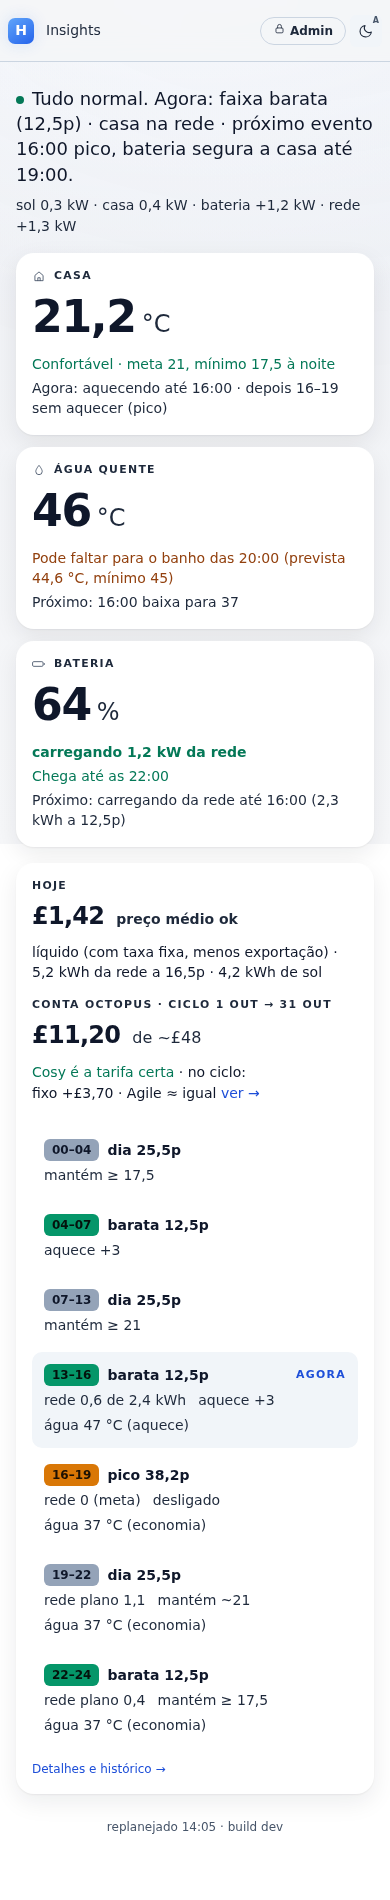
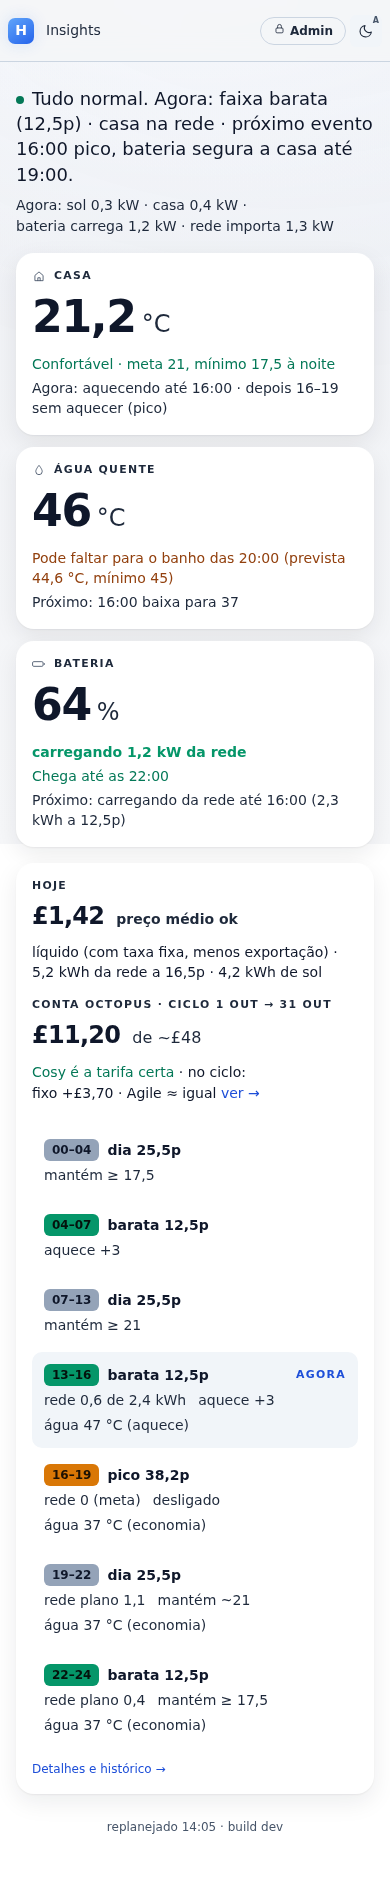
fix(ui): battery flow uses the load balance, stale suffix, words in Agora row (#879)

Changed region(s): [[0.4, 0.0932, 0.8615, 0.1242], [0.0308, 0.0932, 0.3692, 0.1242]]

diff --git a/ui/src/components/home/simple/logic.ts b/ui/src/components/home/simple/logic.ts
@@ -570,55 +570,66 @@ export function bateriaTile(now: CockpitNow, fronts: PlanFrontsResponse | null):
     else if (r.at) { meaning = `Chega até as ${r.at}`; tone = "ok"; }
   }
   const fl = batteryFlow(now.state);
+  const stale = agoraStale(now);   // no present tense on stale data
   return {
     value: soc != null ? fmt(soc, 0) : null, unit: "%", meaning, next: nextCharge(b, tariff, nowMs, away), tone,
-    ...(fl ? { flow: fl.text, flowTone: fl.tone } : {}),
+    ...(fl ? { flow: fl.text + stale, flowTone: fl.tone } : {}),
   };
 }
 
-type FlowState = { battery_kw?: number | null; grid_kw?: number | null; solar_kw?: number | null } | null | undefined;
+type FlowState = {
+  battery_kw?: number | null; grid_kw?: number | null; solar_kw?: number | null; load_kw?: number | null;
+} | null | undefined;
 const FLOW_DEAD_BAND_KW = 0.05;
+const SRC_MIN_KW = 0.1;
 
 /** Live battery flow in words (pt-BR), from the power balance. battery_kw > 0 =
- *  charging; grid_kw > 0 = import, < 0 = export. null when the reading is absent. */
+ *  charging; grid_kw > 0 = import, < 0 = export. Sun available to the battery is
+ *  the PV surplus after the house load. null when the reading is absent. */
 export function batteryFlow(s: FlowState): { text: string; tone: "charge" | "discharge" | "idle" } | null {
   const b = s?.battery_kw;
   if (b == null || !Number.isFinite(b)) return null;
   if (Math.abs(b) < FLOW_DEAD_BAND_KW) return { text: "parada", tone: "idle" };
   const kw = fmt(Math.abs(b), 1);
   const grid = s?.grid_kw ?? 0;
+  const surplus = Math.max(0, (s?.solar_kw ?? 0) - (s?.load_kw ?? 0));
   if (b > 0) {
-    const src = (s?.solar_kw ?? 0) >= b ? " do sol" : grid > 0.1 ? " da rede" : "";
+    const fromSun = Math.min(b, surplus);
+    const fromGrid = Math.max(0, Math.min(b - fromSun, grid));
+    const src = fromSun >= SRC_MIN_KW && fromGrid >= SRC_MIN_KW ? " do sol e da rede"
+      : fromGrid >= SRC_MIN_KW ? " da rede"
+      : fromSun > 0 ? " do sol" : "";
     return { text: `carregando ${kw} kW${src}`, tone: "charge" };
   }
-  return { text: `descarregando ${kw} kW para ${grid < -0.1 ? "a rede" : "a casa"}`, tone: "discharge" };
+  const toGrid = Math.max(0, -grid - surplus);
+  return { text: `descarregando ${kw} kW para ${toGrid >= SRC_MIN_KW ? "a rede" : "a casa"}`, tone: "discharge" };
 }
 
-/** Signed kW for the Agora line: "+1,2" / "−0,3" / "0,0" (no "-0,0"). */
-function skw(n: number): string {
-  const r = Math.round(Math.abs(n) * 10) / 10;
-  return r === 0 ? "0,0" : `${n < 0 ? "−" : "+"}${fmt(r, 1)}`;
-}
-
-/** House power balance, one row: sol / casa (unsigned) and bateria / rede (signed;
- *  explained once in the title). A null figure is hidden. The battery kW also
- *  appears in the Bateria tile flow line: the one accepted duplicate (the tile is
- *  the battery detail, this row is the house balance). */
+/** House power balance, one row of phrases. bateria / rede use WORDS instead of
+ *  signs (carrega / descarrega, importa / exporta) so the legend is visible on a
+ *  phone; a zero reads "bateria 0,0 kW". A null figure is hidden. The battery kW
+ *  also appears in the Bateria tile flow line: the one accepted duplicate (the
+ *  tile is the battery detail, this row is the house balance; DESIGN.md log). */
 export function agoraParts(now: CockpitNow): string[] {
   const s = now.state;
   const out: string[] = [];
+  const dir = (n: number, pos: string, neg: string) => {
+    const r = Math.round(Math.abs(n) * 10) / 10;
+    return r === 0 ? "0,0" : `${n > 0 ? pos : neg} ${fmt(r, 1)}`;
+  };
   if (s.solar_kw != null) out.push(`sol ${fmt(Math.max(0, s.solar_kw), 1)} kW`);
   if (s.load_kw != null) out.push(`casa ${fmt(Math.max(0, s.load_kw), 1)} kW`);
-  if (s.battery_kw != null) out.push(`bateria ${skw(s.battery_kw)} kW`);
-  if (s.grid_kw != null) out.push(`rede ${skw(s.grid_kw)} kW`);
+  if (s.battery_kw != null) out.push(`bateria ${dir(s.battery_kw, "carrega", "descarrega")} kW`);
+  if (s.grid_kw != null) out.push(`rede ${dir(s.grid_kw, "importa", "exporta")} kW`);
   return out;
 }
-export const AGORA_TITLE = "bateria: + carrega, − descarrega · rede: + importa, − exporta";
+export const AGORA_TITLE = "bateria: carrega / descarrega · rede: importa / exporta";
 const FOX_STALE_S = 300;
 /** " (há N min)" when the Fox reading is older than 5 min, else "". */
 export function agoraStale(now: CockpitNow): string {
   const age = now.freshness?.fox?.age_s;
-  if (age == null || !(age > FOX_STALE_S)) return "";
+  const stale = now.freshness?.fox?.stale === true;
+  if (age == null || !(age > FOX_STALE_S)) return stale && age != null ? ` (há ${Math.max(1, Math.floor(age / 60))} min)` : "";
   const min = Math.floor(age / 60);
   return min >= 60 ? ` (há ${Math.floor(min / 60)} h)` : ` (há ${min} min)`;
 }

diff --git a/ui/src/styles/home-simple.css b/ui/src/styles/home-simple.css
@@ -84,8 +84,9 @@
 .hs-muted { color: var(--text-dim); font-size: var(--font-sm); }
 
 .hs-agora { margin: calc(var(--space-2) * -1) 0 0; font-size: var(--font-sm); color: var(--text-dim); font-variant-numeric: tabular-nums; line-height: 1.5; }
+.hs-agora-i { white-space: nowrap; }
 .hs-flow { margin: var(--space-3) 0 0; font-size: var(--font-sm); line-height: 1.45; font-weight: 600; color: var(--text-dim); }
-.hs-flow--charge { color: var(--ok); }
+.hs-flow--charge { color: var(--batt); }
 .hs-flow--discharge { color: var(--text); }
 .hs-flow + .hs-meaning { margin-top: var(--space-1); }
 

diff --git a/ui/src/components/home/simple/StatusLine.tsx b/ui/src/components/home/simple/StatusLine.tsx
@@ -30,7 +30,14 @@ export function AgoraLine({ parts, stale }: { parts: string[]; stale: string }) 
   if (parts.length === 0) return null;
   return (
     <p class="hs-agora" title={AGORA_TITLE}>
-      {parts.join(" · ")}{stale}
+      Agora:{" "}
+      {parts.map((t, i) => (
+        <span key={t}>
+          {i > 0 && " · "}
+          <span class="hs-agora-i">{t}</span>
+        </span>
+      ))}
+      {stale}
     </p>
   );
 }

diff --git a/DESIGN.md b/DESIGN.md
@@ -164,6 +164,7 @@ rationale + the rules. When they disagree, fix the drift, don't fork the values.
 | 2026-07-02 | `--cool` (chart-ramp cool end) + `--text-on-accent` tokens; every `var(--x, #literal)` fallback stripped (#621) | 7 fallbacks carried WRONG colors (amber/cyan mixups); light theme gained missing `--neg`/`--thermal`/`--cool` |
 | 2026-07-02 | Motion sub-scale `--dur-fast/med/slow`; `--space-0 2px`; breakpoint scale documented (#595) | Converge the 52 ad-hoc durations + chip micro-spacing on tokens |
 | 2026-10-28 | UI epic #879: Home/Insights/Settings v2, band strip instead of price curves, `--on-cheap/--on-standard/--on-peak` tokens, `--peak-export` removed, Journal out of the nav, Agile-era copy and ~60 dead UI files/wrappers deleted | Cosy is a 3-band tariff; the old charts were percentile-based and confusing |
+| 2026-10-29 | Home: battery kW shown in the Bateria tile AND in the "Agora:" balance row (accepted exception to "every number once") | Tile = battery detail (SoC, flow in words, source); row = house balance (sol / casa / bateria / rede). Owner feedback: needed to know if the battery is charging |
 
 ## Gap status (2026-07-02 re-audit — was "Open Gaps", 2026-06-16)
 All gaps re-verified against source on 2026-07-02 (4-sweep conformity audit):
